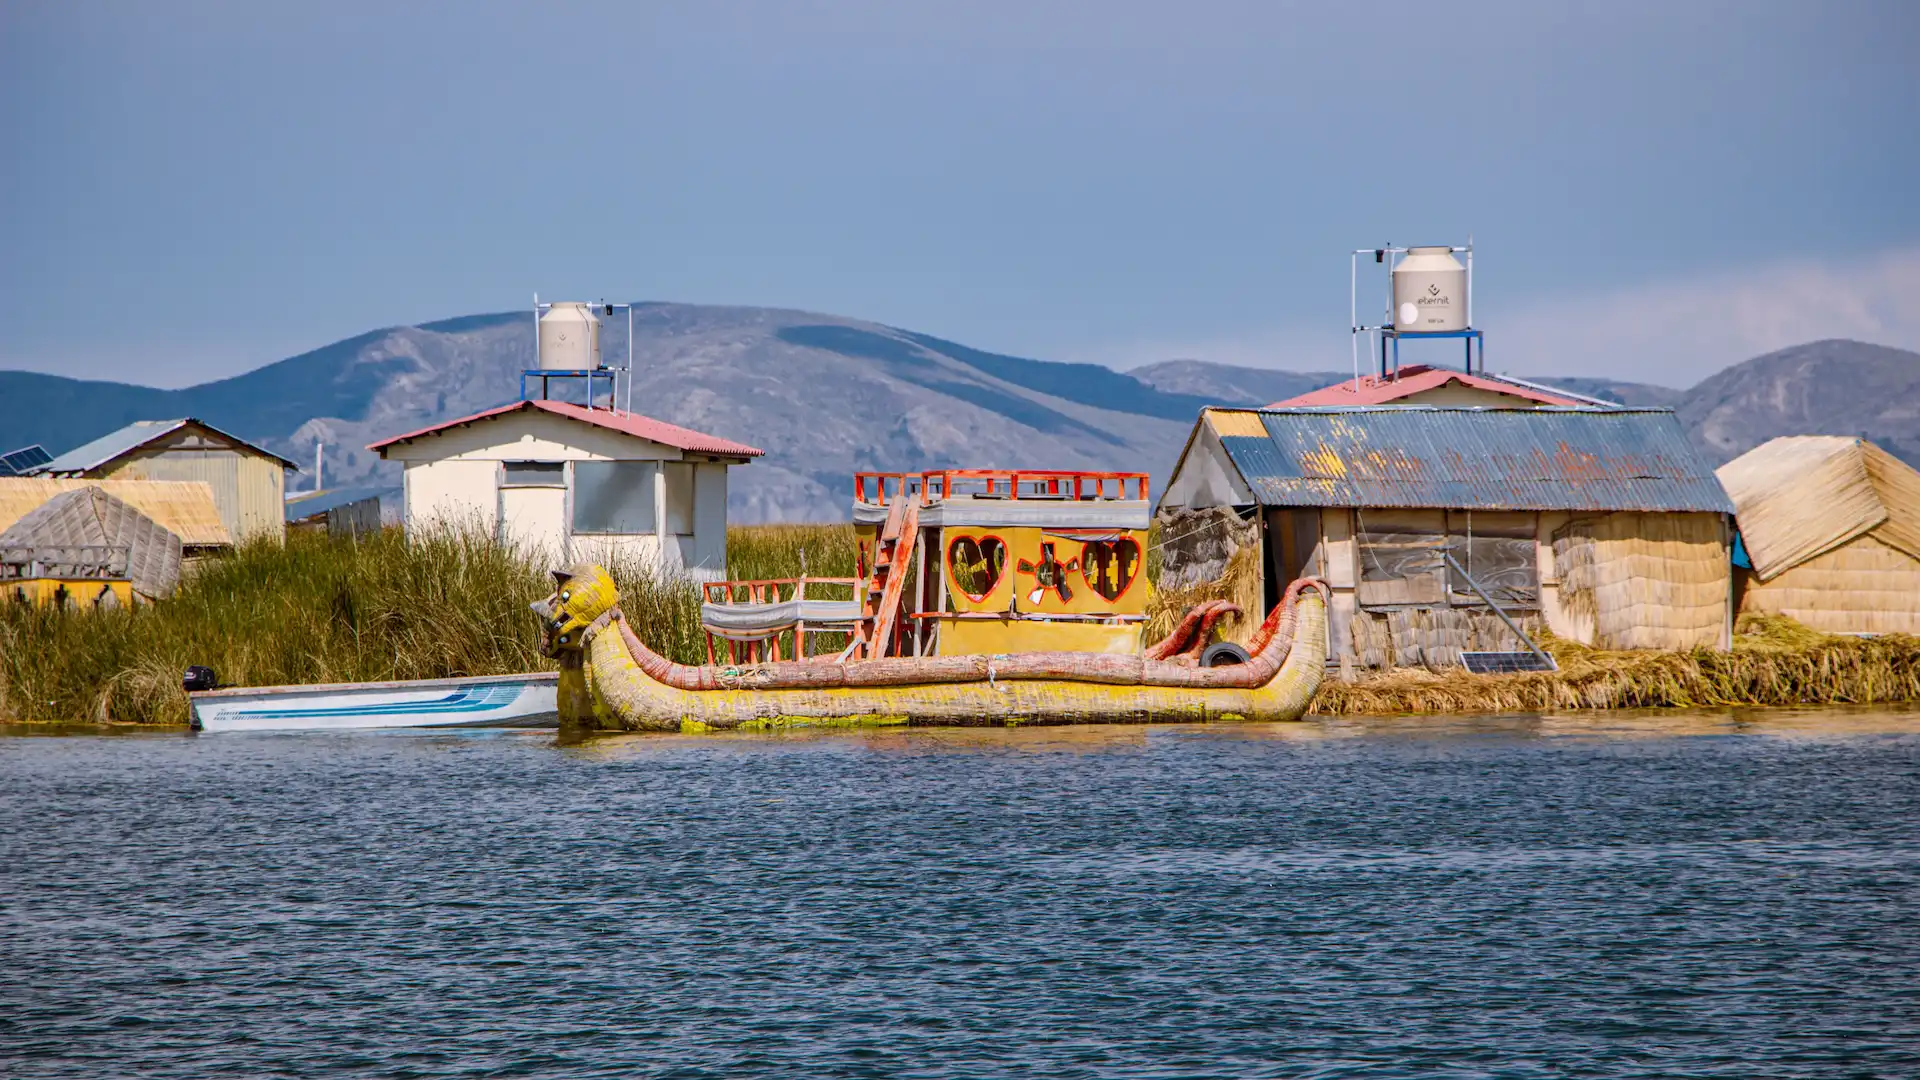
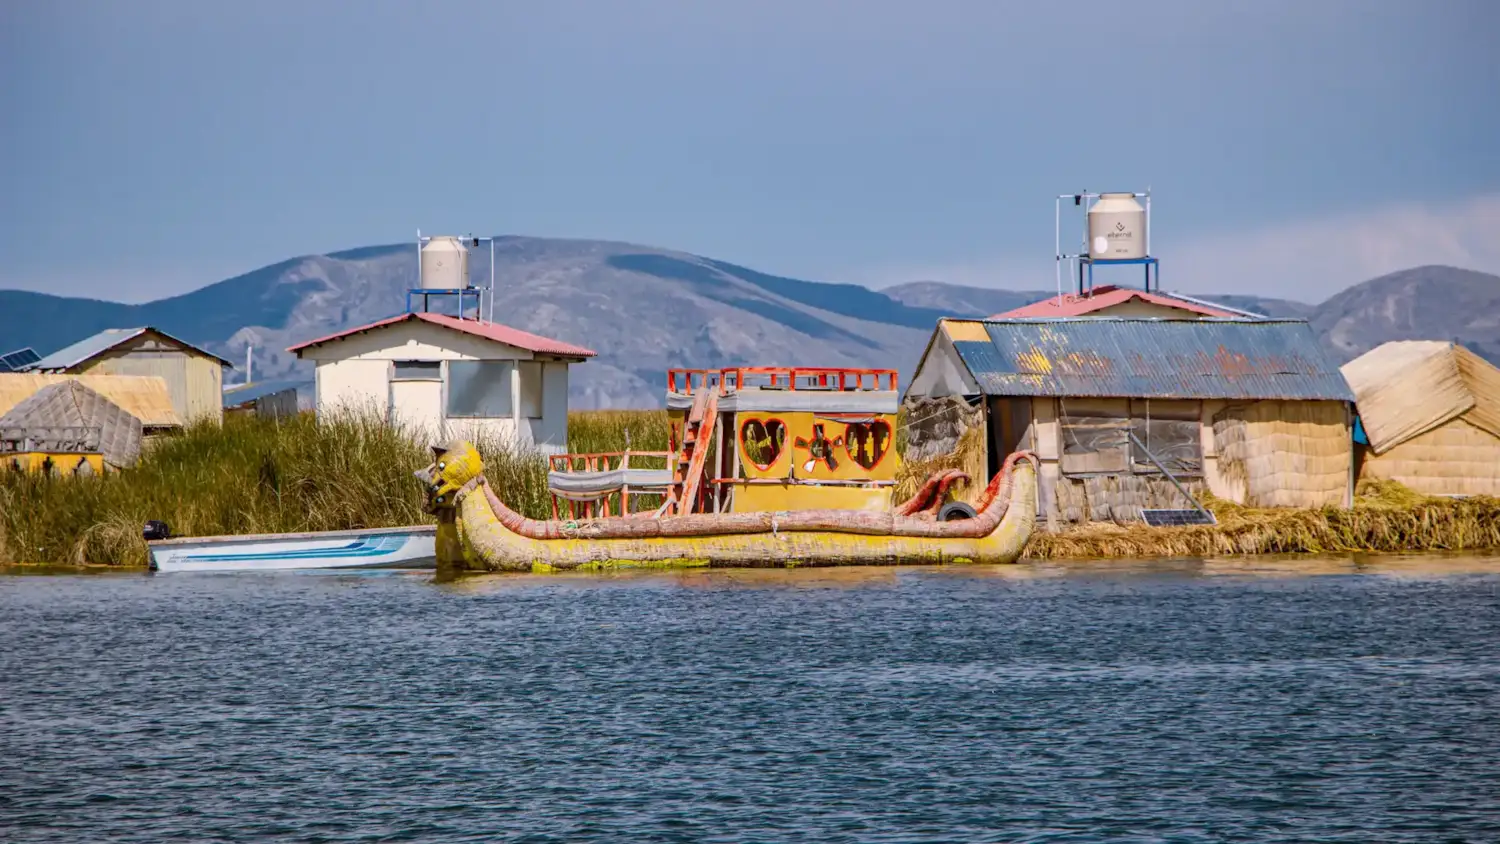
display desktop completed and some corrections in code.

diff --git a/place.html b/place.html
@@ -8,10 +8,12 @@
     <meta name="description" content="Discover more information about Puno in Peru. Check geographical and meterological information to decide your next trip">
     <link rel="stylesheet" href="styles/place.css">
     <link rel="stylesheet" href="styles/place-large.css">
-    <link rel="preconnect" href="https://fonts.googleapis.com">
-    <link rel="preconnect" href="https://fonts.gstatic.com" crossorigin>
-    <link href="https://fonts.googleapis.com/css2?family=Roboto:ital,wght@0,100..900;1,100..900&display=swap" rel="stylesheet">
-    <script defer src="scripts/calculateWindChill.js"></script>
+    
+    <link rel="preconnect" href="https://googleapis.com">
+    <link rel="preconnect" href="https://gstatic.com" crossorigin>
+    <link href="https://googleapis.com/css2?family=Roboto:ital,wght@0,400;0,700;1,400;1,700&display=swap" rel="stylesheet">
+
+    <script defer src="scripts/calculate-wind-chill.js"></script>
     <script defer src="scripts/getdates.js"></script>
 </head>
 <body>
@@ -24,11 +26,9 @@
                 <source media="(min-width: 1200px)" srcset="images/uros-hero-image-large.webp">
                 <source media="(min-width: 750px)" srcset="images/uros-hero-image-medium.webp">
                 <img src="images/uros-hero-image.webp" alt="Uros Islands in Lago Titikaka Peru" width="750" height="1000">
-                <figcaption>
-                    <span class="credits-desktop">Foto de Cristian Quiñones Ramirez on <a target="_blank" href="https://www.pexels.com/es-es/foto/paisaje-naturaleza-barcos-arquitectura-28034050/">pexels.</a></span>
-                    <span class="credits-mobile">Foto de Jaime Joel Vargas Huacre on <a target="_blank" href="https://www.pexels.com/es-es/foto/isla-flotante-en-el-lago-titicaca-bajo-un-cielo-azul-34057369/">pexels.</a></span>
-                </figcaption>
             </picture>
+            <span class="credits-desktop">Foto de Cristian Quiñones Ramirez on <a target="_blank" href="https://www.pexels.com/es-es/foto/paisaje-naturaleza-barcos-arquitectura-28034050/">pexels.</a></span>
+            <span class="credits-mobile">Foto de Jaime Joel Vargas Huacre on <a target="_blank" href="https://www.pexels.com/es-es/foto/isla-flotante-en-el-lago-titicaca-bajo-un-cielo-azul-34057369/">pexels.</a></span>
         </div>
         <section class="main-content">
             <section class="card-container data">
@@ -49,7 +49,7 @@
             </section>
             <section class="card-container weather">
                 <h2>Weather</h2>
-                <img src="images/weather-icon.svg" alt="weather icon">
+                <img src="images/weather-icon.svg" alt="weather icon" class="weather-icon">
                 <div class="card-content">
                     <ul>
                         <li><span class="label">Temperature:</span>2.0°C</li>

diff --git a/styles/place-large.css b/styles/place-large.css
@@ -1,5 +1,23 @@
-@media screen and (min-width: 1200px){
-    main{
+:root{
+    --primary-color: #334960;
+    --secondary-color: #edeaea;
+    --accent-color: #fff;
+    --accent-color2: #333333;
+    --font-page: "Roboto", sans-serif;
+}
+
+@media screen and (min-width: 750px){
+    .credits-mobile{
+        display: none;
+    }
+ 
+    .credits-desktop{
+        display: inline;
+    }
+}
+
+@media screen and (min-width: 1080px){
+    main {
         position: relative;
     }
     .main-content{
@@ -11,18 +29,52 @@
         gap: 20px;
     }
 
+    .card-container{
+        padding-top: 7rem;
+        border-radius: 0;
+        opacity: 0.9;
+    }
+    /* ---------------------------CARD WEATHER----------------------------------- */
     .weather{
         position: absolute;
-        margin: 2rem;
-        bottom: 0rem;
-        right: 0rem;
-        
+        bottom: 1.5rem;
+        right: 1.5rem;
     }
+
+    .weather h2{
+        background-color: var(--primary-color);
+        color: var(--accent-color);
+        width: 15rem;
+        text-align: left;
+        position: absolute;
+        bottom: 8rem;
+        right: 4rem;
+        padding: 1rem;
+    }
+
+    .weather h2::after{
+        content: " ⛅";
+    }
+
+    .weather-icon{
+        display: none;
+    }
+    /* ---------------------------CARD DATA----------------------------------- */
     .data{
         position: absolute;
-        margin: 1rem;
         top: 0rem;
         left: 0rem;
     }
-    
+
+    .data h2{
+        background-color: var(--primary-color);
+        color: var(--accent-color);
+        width: 15rem;
+        text-align: left;
+        position: absolute;
+        top: 1rem;
+        left: -1rem;
+        padding: 1rem; 
+    }
 }
+

diff --git a/styles/place.css b/styles/place.css
@@ -1,7 +1,7 @@
 :root{
     --primary-color: #334960;
     --secondary-color: #edeaea;
-    --accent-color: #fff;
+    --accent-color: #ffffff;
     --accent-color2: #333333;
     --font-page: "Roboto", sans-serif;
 }
@@ -24,7 +24,7 @@ header h1{
     border-bottom: 1rem solid var(--accent-color2);
 }
 
-.hero picture{
+.hero{
     position: relative;
 }
 
@@ -60,7 +60,7 @@ header h1{
 .hero a{
     text-decoration: none;
     color: inherit;
-    font-weight: bold;
+    font-weight: 700;
 }
 /* -------------------------------------------- Main Content------------------------------------------------- */
 main{
@@ -86,7 +86,7 @@ main{
     text-align: center;
     background-color: var(--accent-color);
     border-radius: 1rem;
-    box-shadow: 0px 0px 2px 2px rgba(0, 0, 0, 0.2);
+    box-shadow: 0px 0px 2px 2px color-mix(in srgb, var(--accent-color2) 30%, transparent);
 
 }
 
@@ -94,7 +94,7 @@ main{
     margin-bottom: 1.5rem;
 }
 
-.card-container img{      /*Weather Icon */
+.weather-icon{      /*Weather Icon */
     width: 25%;
     margin-bottom: 1rem;
     min-width: 16px;
